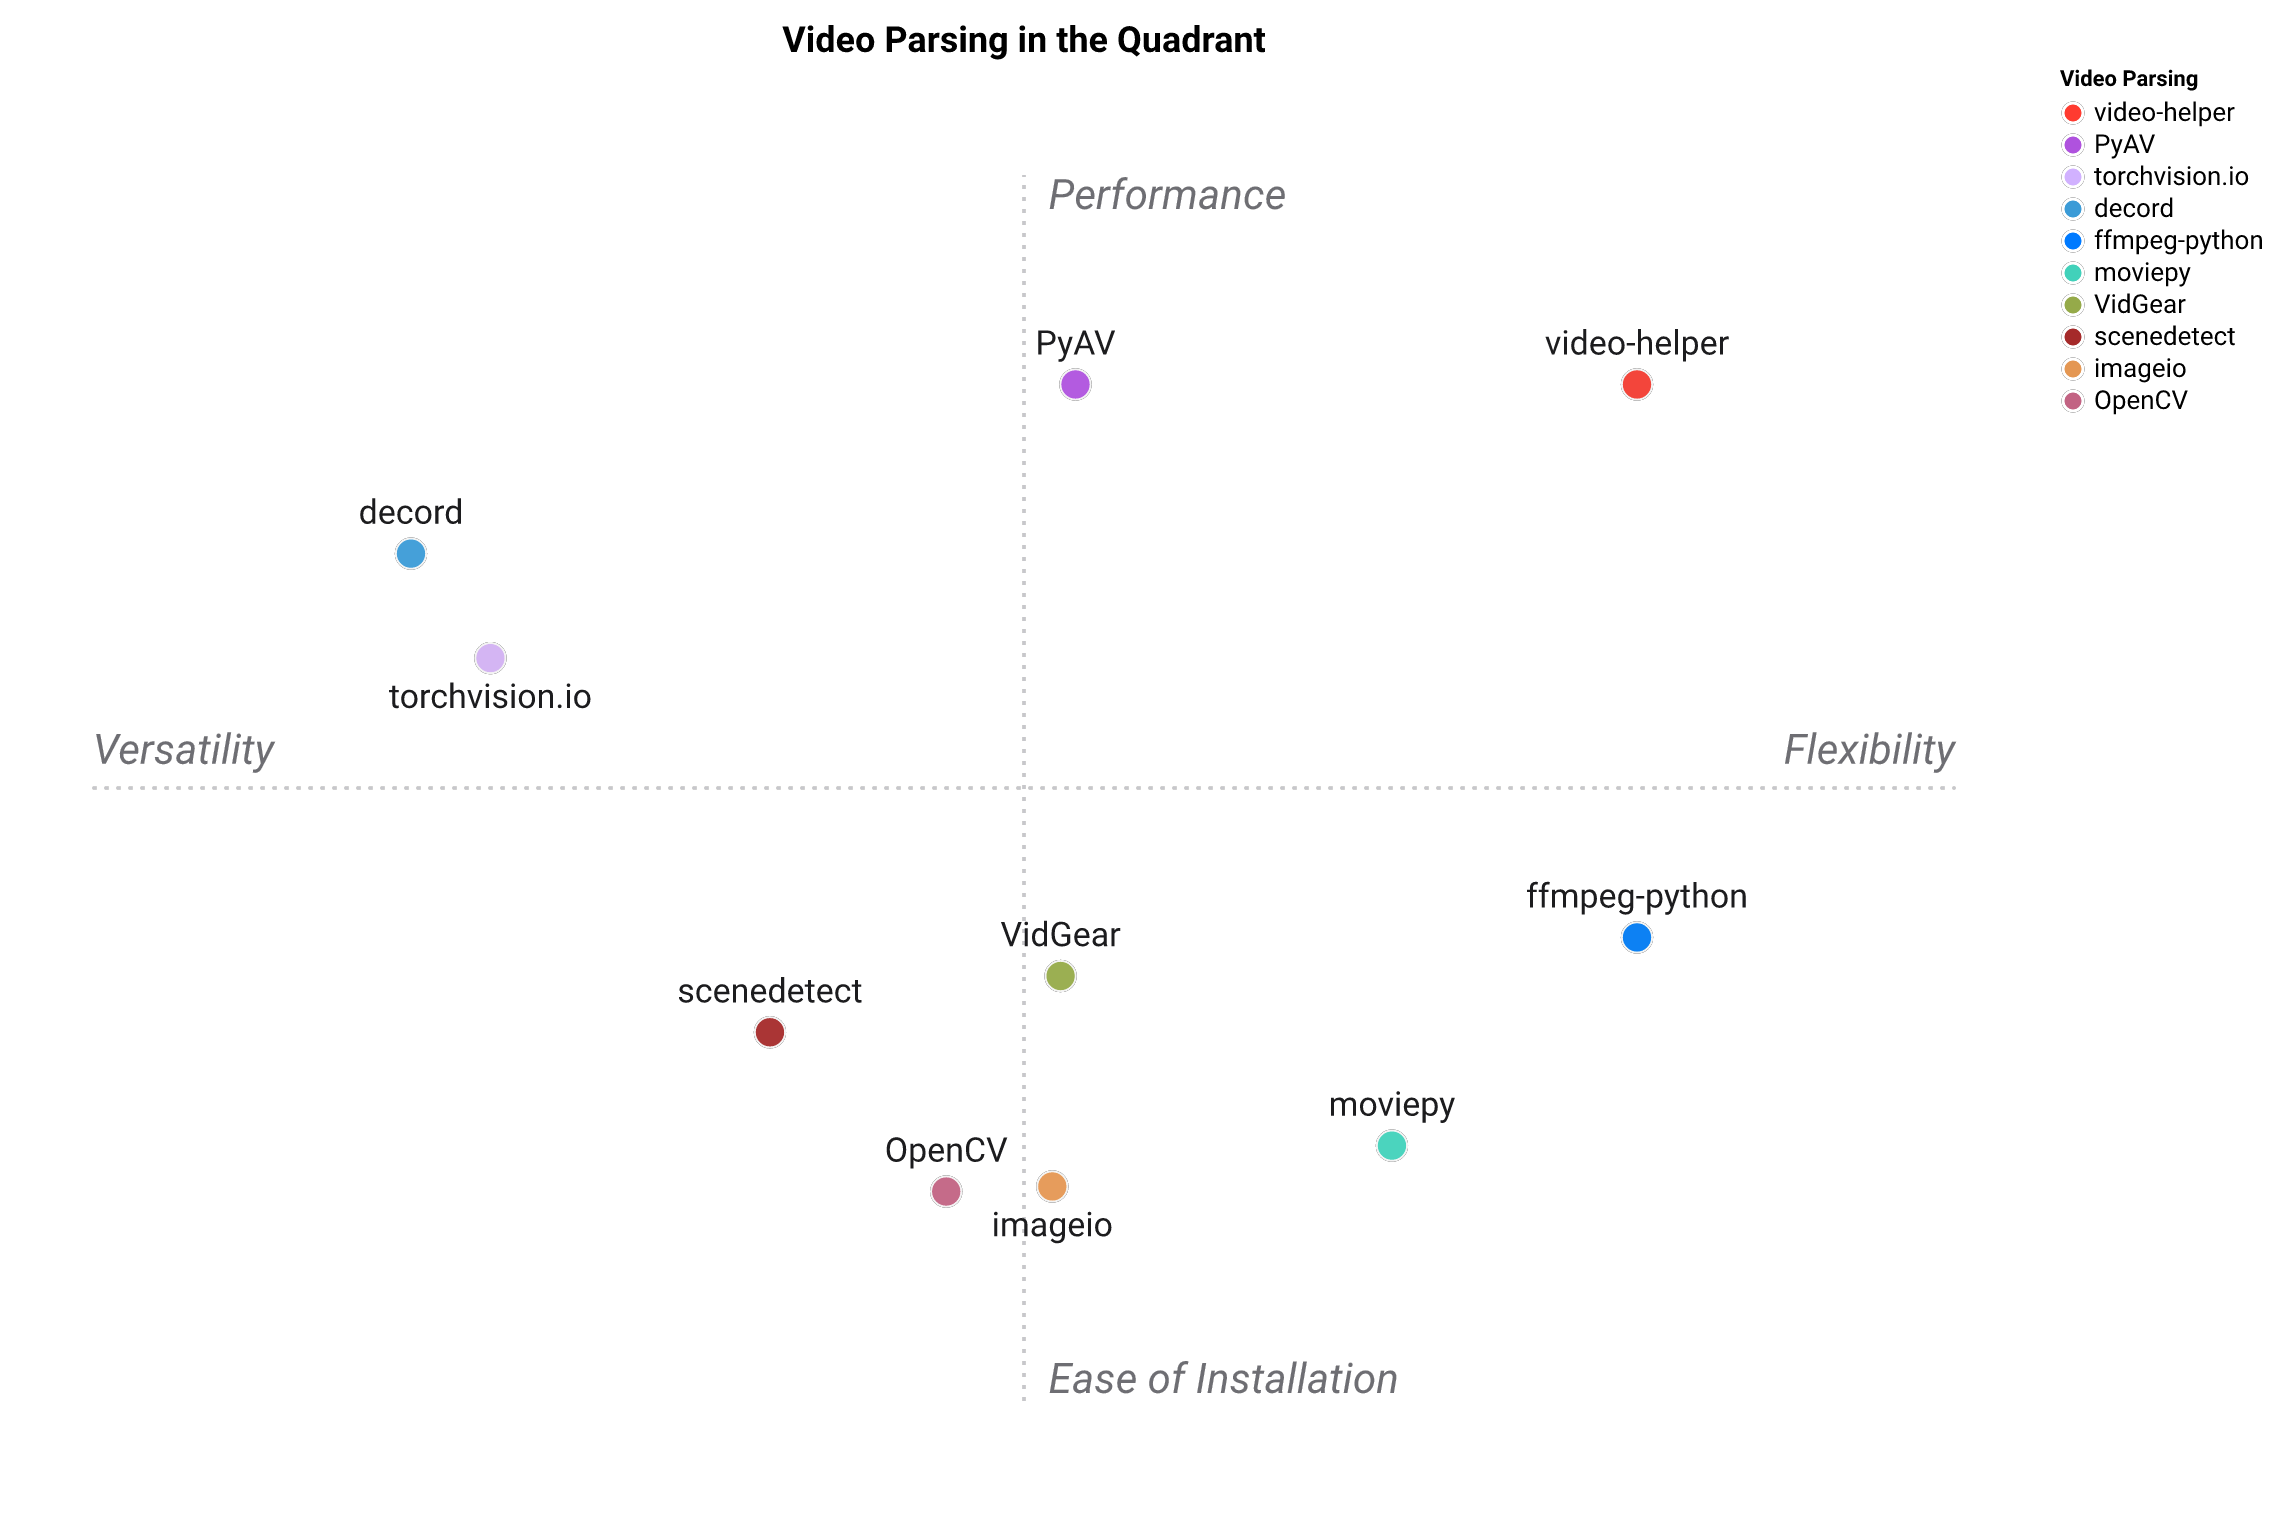
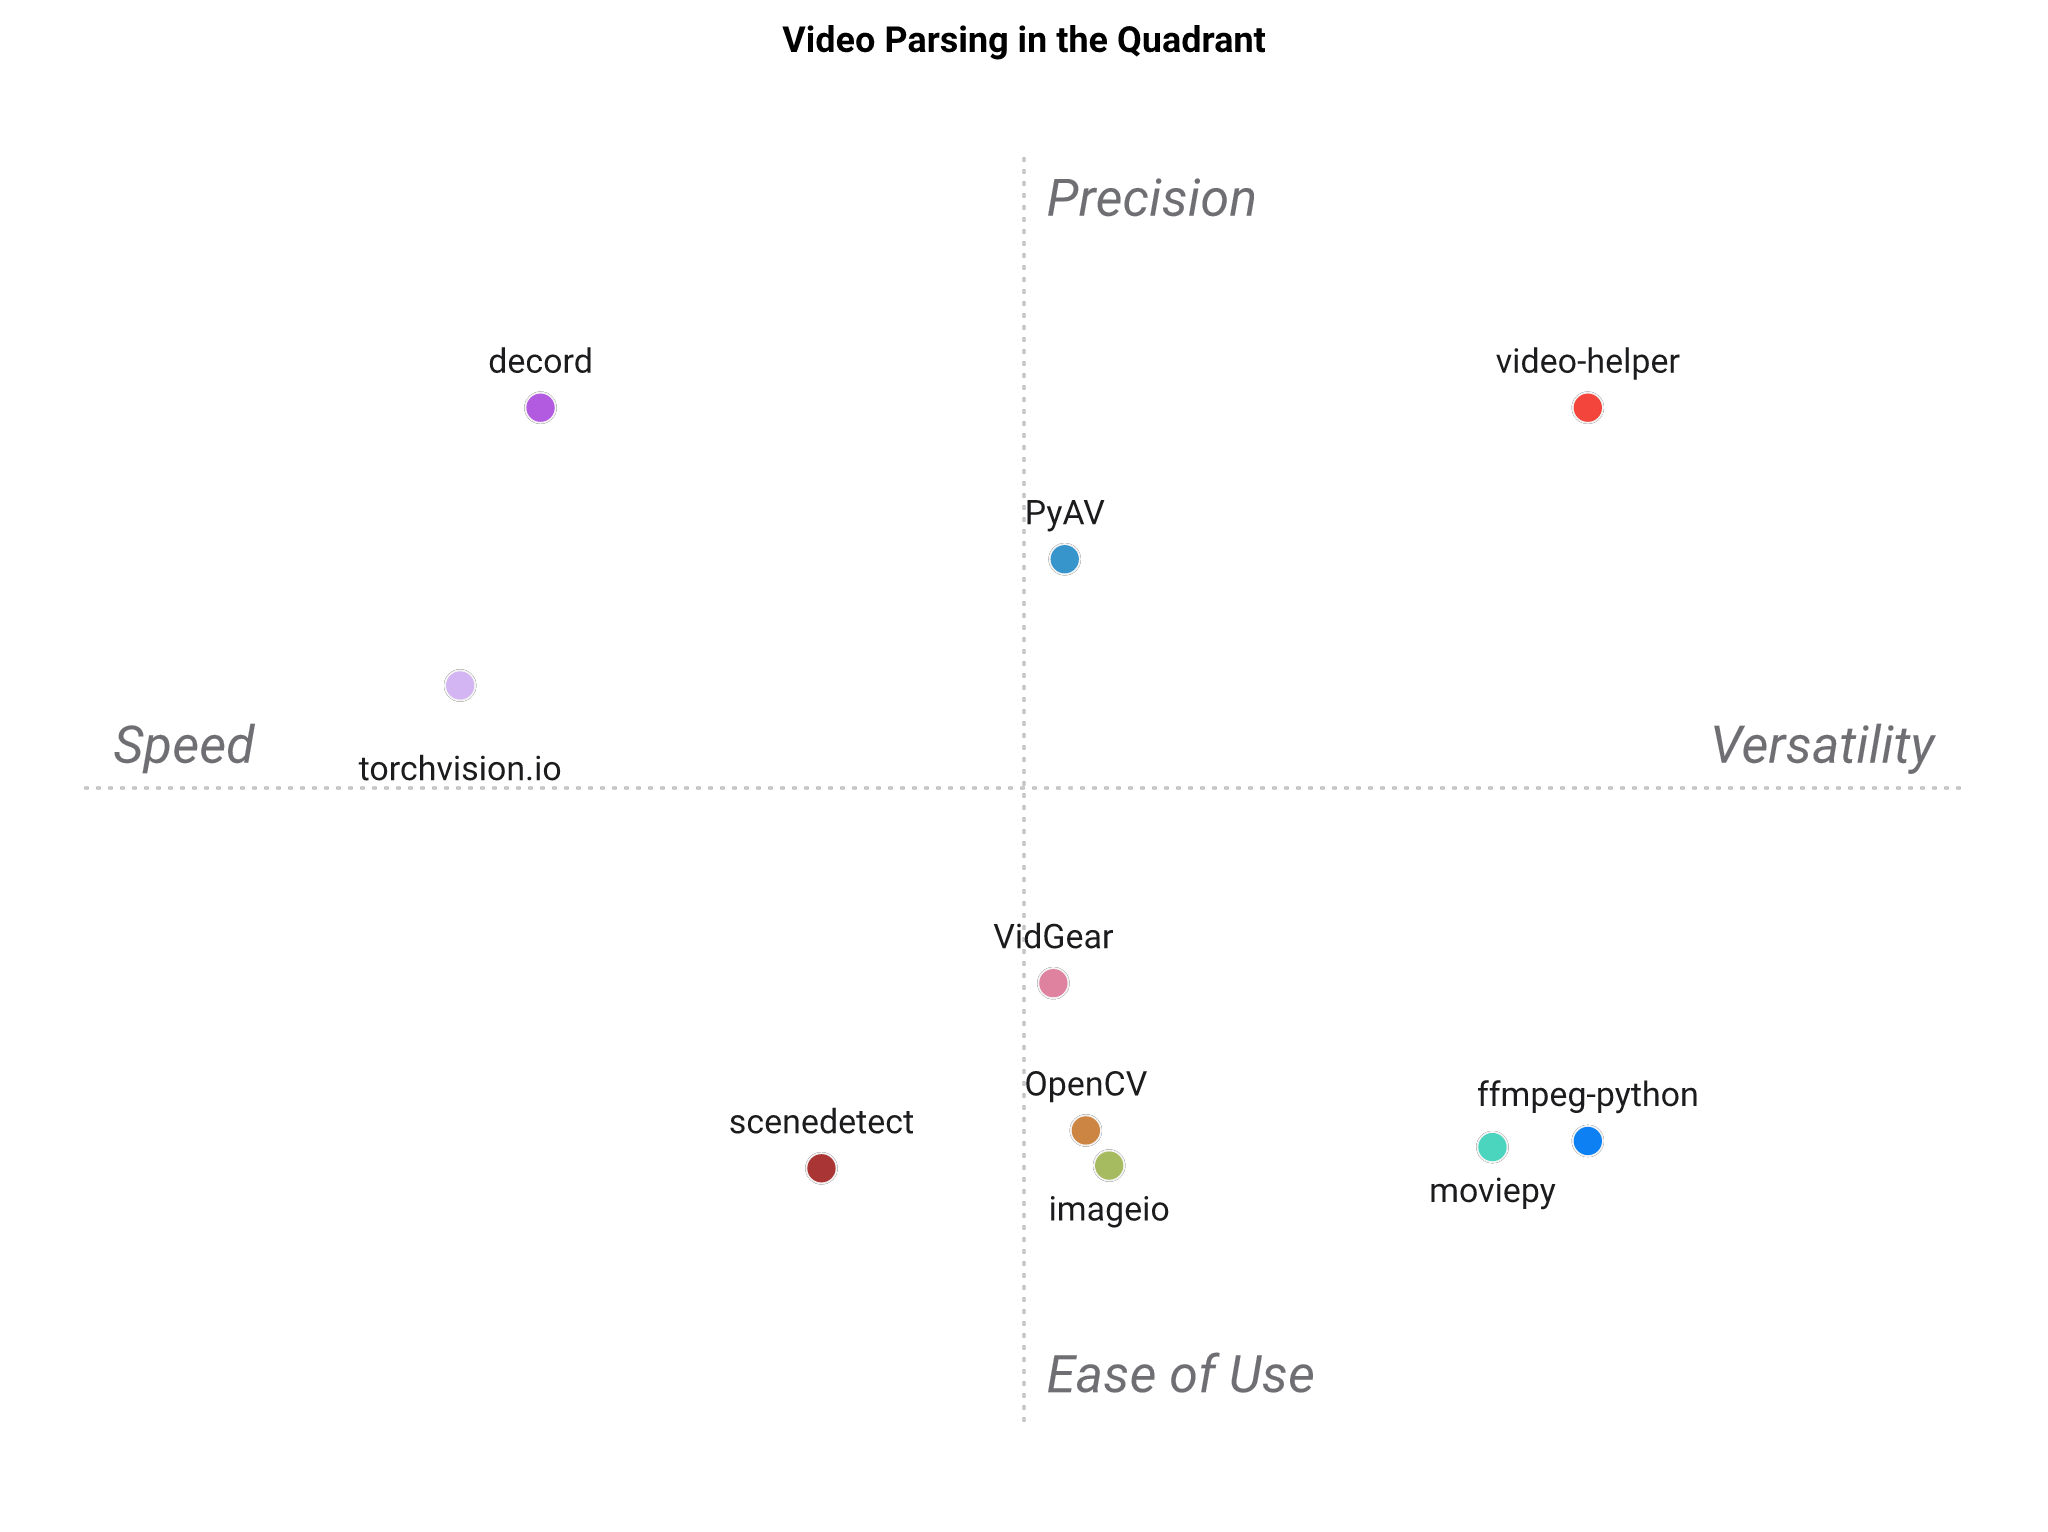
docs(landscape): refine ratings + regenerate positioning map
Refresh the comparison ratings (honest corrections to Subtitles, GPU decode,
multi-destination across PyAV/decord/torchvision.io/OpenCV/scenedetect) and
regenerate the figure via standpoint 0.6.0. Reconcile the decord/torchvision.io
prose with torchvision.io now leading GPU decode.

diff --git a/PAYSAGE.md b/PAYSAGE.md
@@ -19,14 +19,14 @@ n'est pas pénalisée — la note reflète seulement l'adéquation à *ce* crén
 | --- | :---: | :---: | :---: | :---: | :---: | :---: | :---: | :---: |
 | **video-helper** | ⭐⭐⭐⭐⭐ | ⭐⭐⭐⭐⭐ | ⭐⭐⭐⭐⭐ | ⭐⭐⭐⭐⭐ | ⭐⭐⭐⭐⭐ | ⭐⭐⭐⭐ | ⭐⭐⭐⭐⭐ | ⭐⭐⭐⭐⭐ |
 | moviepy | ⭐⭐⭐⭐ | ⭐⭐⭐⭐ | ⭐⭐⭐⭐⭐ | ⭐⭐⭐ | ⭐⭐⭐ | ⭐ | ⭐⭐ | ⭐⭐⭐⭐ |
-| PyAV | ⭐⭐⭐⭐⭐ | ⭐⭐⭐ | ⭐⭐ | ⭐⭐⭐⭐⭐ | ⭐ | ⭐⭐⭐⭐⭐ | ⭐⭐⭐ | ⭐⭐⭐⭐ |
-| decord | ⭐⭐ | ⭐ | ⭐ | ⭐⭐⭐⭐⭐ | ⭐ | ⭐⭐⭐ | ⭐⭐⭐⭐ | ⭐⭐ |
-| torchvision.io | ⭐⭐⭐ | ⭐⭐ | ⭐ | ⭐⭐⭐⭐ | ⭐ | ⭐⭐ | ⭐⭐⭐⭐⭐ | ⭐ |
-| VidGear | ⭐⭐⭐⭐ | ⭐⭐⭐ | ⭐⭐⭐ | ⭐⭐⭐⭐ | ⭐ | ⭐⭐ | ⭐⭐ | ⭐⭐⭐⭐ |
-| OpenCV | ⭐⭐⭐ | ⭐⭐⭐ | ⭐⭐ | ⭐⭐⭐ | ⭐ | ⭐⭐ | ⭐⭐ | ⭐⭐⭐⭐ |
-| ffmpeg-python | ⭐⭐⭐⭐⭐ | ⭐⭐⭐⭐⭐ | ⭐⭐⭐⭐ | ⭐⭐⭐ | ⭐⭐⭐ | ⭐⭐⭐⭐ | ⭐ | ⭐⭐⭐⭐⭐ |
-| imageio | ⭐⭐⭐⭐ | ⭐⭐⭐ | ⭐⭐ | ⭐⭐⭐ | ⭐ | ⭐ | ⭐⭐⭐ | ⭐⭐⭐⭐⭐ |
-| scenedetect | ⭐⭐⭐ | ⭐ | ⭐⭐ | ⭐⭐⭐⭐ | ⭐ | ⭐⭐ | ⭐⭐ | ⭐⭐⭐⭐ |
+| PyAV | ⭐⭐⭐⭐⭐ | ⭐⭐ | ⭐⭐ | ⭐⭐⭐⭐⭐ | ⭐⭐ | ⭐⭐⭐ | ⭐⭐⭐ | ⭐⭐⭐⭐ |
+| decord | ⭐⭐ | ⭐ | ⭐ | ⭐⭐⭐⭐⭐ | ⭐ | ⭐⭐⭐⭐ | ⭐⭐⭐⭐ | ⭐⭐ |
+| torchvision.io | ⭐⭐ | ⭐ | ⭐ | ⭐⭐⭐⭐ | ⭐ | ⭐⭐⭐⭐⭐ | ⭐⭐ | ⭐ |
+| VidGear | ⭐⭐⭐⭐ | ⭐⭐⭐ | ⭐⭐ | ⭐⭐⭐⭐ | ⭐ | ⭐⭐ | ⭐⭐ | ⭐⭐⭐⭐ |
+| OpenCV | ⭐⭐⭐ | ⭐⭐⭐ | ⭐⭐ | ⭐⭐⭐ | ⭐⭐ | ⭐⭐ | ⭐⭐ | ⭐⭐⭐⭐ |
+| ffmpeg-python | ⭐⭐⭐⭐⭐ | ⭐⭐⭐⭐ | ⭐⭐⭐⭐ | ⭐⭐⭐ | ⭐⭐⭐⭐ | ⭐⭐ | ⭐ | ⭐⭐⭐⭐⭐ |
+| imageio | ⭐⭐⭐⭐ | ⭐⭐ | ⭐⭐ | ⭐⭐⭐ | ⭐ | ⭐ | ⭐⭐⭐ | ⭐⭐⭐⭐⭐ |
+| scenedetect | ⭐ | ⭐ | ⭐⭐⭐ | ⭐⭐⭐⭐ | ⭐ | ⭐ | ⭐⭐ | ⭐⭐⭐⭐ |
 <!-- TABLE:END -->
 
 ## Carte de positionnement
@@ -36,7 +36,7 @@ Représentation 2D du tableau ci-dessus.
 
 ![Carte de positionnement](https://raw.githubusercontent.com/warith-harchaoui/video-helper/main/assets/paysage.png)
 
-La carte est un résumé en 2D des 8 critères : à lire comme une forme, pas comme un classement. « video-helper » se situe dans le coin en haut à droite. Les axes se lisent **Horizontal — Polyvalence ↔ Facilité d'installation** et **Vertical — Légèreté ↔ Rapide et efficace**.
+La carte est un résumé en 2D des 8 critères : à lire comme une forme, pas comme un classement. « video-helper » se situe dans le coin en haut à droite. Les axes se lisent **Horizontal — Rapide ↔ Simple** et **Vertical — Léger ↔ Précis**.
 <!-- FIGURE:END -->
 
 ## Positionnement
@@ -78,8 +78,9 @@ renvoie du numpy par défaut, avec torch et PIL disponibles sur demande.
 - **`PyAV`** — vous avez besoin d'un contrôle au niveau paquet (réglages de
   codec personnalisés, placement des images-clés, précision de recherche).
 - **`decord` / `torchvision.io`** — lectures d'images en accès aléatoire
-  pur directement en tenseurs torch, avec une boucle d'entraînement qui
-  domine le coût total (flux de travail axé sur le dataloader).
+  pur, décodées sur GPU, directement en tenseurs torch, avec une boucle
+  d'entraînement qui domine le coût total (flux de travail axé sur le
+  dataloader).
 - **`VidGear`** — vous avez besoin des utilitaires OpenCV+FFmpeg avec le
   stabilisateur intégré et l'accès épars vous importe peu.
 - **`OpenCV`** — prototypage rapide, sans objectif de débit par lots ni

diff --git a/LANDSCAPE.md b/LANDSCAPE.md
@@ -18,14 +18,14 @@ penalised — the score just reflects fit to *this* niche.
 | --- | :---: | :---: | :---: | :---: | :---: | :---: | :---: | :---: |
 | **video-helper** | ⭐⭐⭐⭐⭐ | ⭐⭐⭐⭐⭐ | ⭐⭐⭐⭐⭐ | ⭐⭐⭐⭐⭐ | ⭐⭐⭐⭐⭐ | ⭐⭐⭐⭐ | ⭐⭐⭐⭐⭐ | ⭐⭐⭐⭐⭐ |
 | moviepy | ⭐⭐⭐⭐ | ⭐⭐⭐⭐ | ⭐⭐⭐⭐⭐ | ⭐⭐⭐ | ⭐⭐⭐ | ⭐ | ⭐⭐ | ⭐⭐⭐⭐ |
-| PyAV | ⭐⭐⭐⭐⭐ | ⭐⭐⭐ | ⭐⭐ | ⭐⭐⭐⭐⭐ | ⭐ | ⭐⭐⭐⭐⭐ | ⭐⭐⭐ | ⭐⭐⭐⭐ |
-| decord | ⭐⭐ | ⭐ | ⭐ | ⭐⭐⭐⭐⭐ | ⭐ | ⭐⭐⭐ | ⭐⭐⭐⭐ | ⭐⭐ |
-| torchvision.io | ⭐⭐⭐ | ⭐⭐ | ⭐ | ⭐⭐⭐⭐ | ⭐ | ⭐⭐ | ⭐⭐⭐⭐⭐ | ⭐ |
-| VidGear | ⭐⭐⭐⭐ | ⭐⭐⭐ | ⭐⭐⭐ | ⭐⭐⭐⭐ | ⭐ | ⭐⭐ | ⭐⭐ | ⭐⭐⭐⭐ |
-| OpenCV | ⭐⭐⭐ | ⭐⭐⭐ | ⭐⭐ | ⭐⭐⭐ | ⭐ | ⭐⭐ | ⭐⭐ | ⭐⭐⭐⭐ |
-| ffmpeg-python | ⭐⭐⭐⭐⭐ | ⭐⭐⭐⭐⭐ | ⭐⭐⭐⭐ | ⭐⭐⭐ | ⭐⭐⭐ | ⭐⭐⭐⭐ | ⭐ | ⭐⭐⭐⭐⭐ |
-| imageio | ⭐⭐⭐⭐ | ⭐⭐⭐ | ⭐⭐ | ⭐⭐⭐ | ⭐ | ⭐ | ⭐⭐⭐ | ⭐⭐⭐⭐⭐ |
-| scenedetect | ⭐⭐⭐ | ⭐ | ⭐⭐ | ⭐⭐⭐⭐ | ⭐ | ⭐⭐ | ⭐⭐ | ⭐⭐⭐⭐ |
+| PyAV | ⭐⭐⭐⭐⭐ | ⭐⭐ | ⭐⭐ | ⭐⭐⭐⭐⭐ | ⭐⭐ | ⭐⭐⭐ | ⭐⭐⭐ | ⭐⭐⭐⭐ |
+| decord | ⭐⭐ | ⭐ | ⭐ | ⭐⭐⭐⭐⭐ | ⭐ | ⭐⭐⭐⭐ | ⭐⭐⭐⭐ | ⭐⭐ |
+| torchvision.io | ⭐⭐ | ⭐ | ⭐ | ⭐⭐⭐⭐ | ⭐ | ⭐⭐⭐⭐⭐ | ⭐⭐ | ⭐ |
+| VidGear | ⭐⭐⭐⭐ | ⭐⭐⭐ | ⭐⭐ | ⭐⭐⭐⭐ | ⭐ | ⭐⭐ | ⭐⭐ | ⭐⭐⭐⭐ |
+| OpenCV | ⭐⭐⭐ | ⭐⭐⭐ | ⭐⭐ | ⭐⭐⭐ | ⭐⭐ | ⭐⭐ | ⭐⭐ | ⭐⭐⭐⭐ |
+| ffmpeg-python | ⭐⭐⭐⭐⭐ | ⭐⭐⭐⭐ | ⭐⭐⭐⭐ | ⭐⭐⭐ | ⭐⭐⭐⭐ | ⭐⭐ | ⭐ | ⭐⭐⭐⭐⭐ |
+| imageio | ⭐⭐⭐⭐ | ⭐⭐ | ⭐⭐ | ⭐⭐⭐ | ⭐ | ⭐ | ⭐⭐⭐ | ⭐⭐⭐⭐⭐ |
+| scenedetect | ⭐ | ⭐ | ⭐⭐⭐ | ⭐⭐⭐⭐ | ⭐ | ⭐ | ⭐⭐ | ⭐⭐⭐⭐ |
 <!-- TABLE:END -->
 
 ## Positioning map
@@ -35,7 +35,7 @@ penalised — the score just reflects fit to *this* niche.
 
 ![Positioning map](https://raw.githubusercontent.com/warith-harchaoui/video-helper/main/assets/landscape.png)
 
-The map is a 2-D summary of the eight criteria, so read it as a shape, not a scoreboard. `video-helper` is at the top-right corner. The axes read **Horizontal — Versatility ↔ Flexibility** and **Vertical — Ease of Installation ↔ Performance**.
+The map is a 2-D summary of the eight criteria, so read it as a shape, not a scoreboard. `video-helper` is at the top-right corner. The axes read **Horizontal — Speed ↔ Versatility** and **Vertical — Ease of Use ↔ Precision**.
 <!-- FIGURE:END -->
 
 ## Positioning
@@ -72,9 +72,9 @@ returns numpy by default with torch and PIL available on request.
   batch throughput.
 - **`PyAV`** — you need packet-level control (custom codec settings,
   keyframe placement, seek precision).
-- **`decord` / `torchvision.io`** — pure random-access frame reads
-  straight into torch tensors, with a training loop that dominates
-  total cost (dataloader-heavy workflow).
+- **`decord` / `torchvision.io`** — pure random-access, GPU-decoded
+  frame reads straight into torch tensors, with a training loop that
+  dominates total cost (dataloader-heavy workflow).
 - **`VidGear`** — you need OpenCV+FFmpeg helpers with the built-in
   stabilizer and don't care about sparse access.
 - **`OpenCV`** — quick prototyping, no batch throughput target, no
